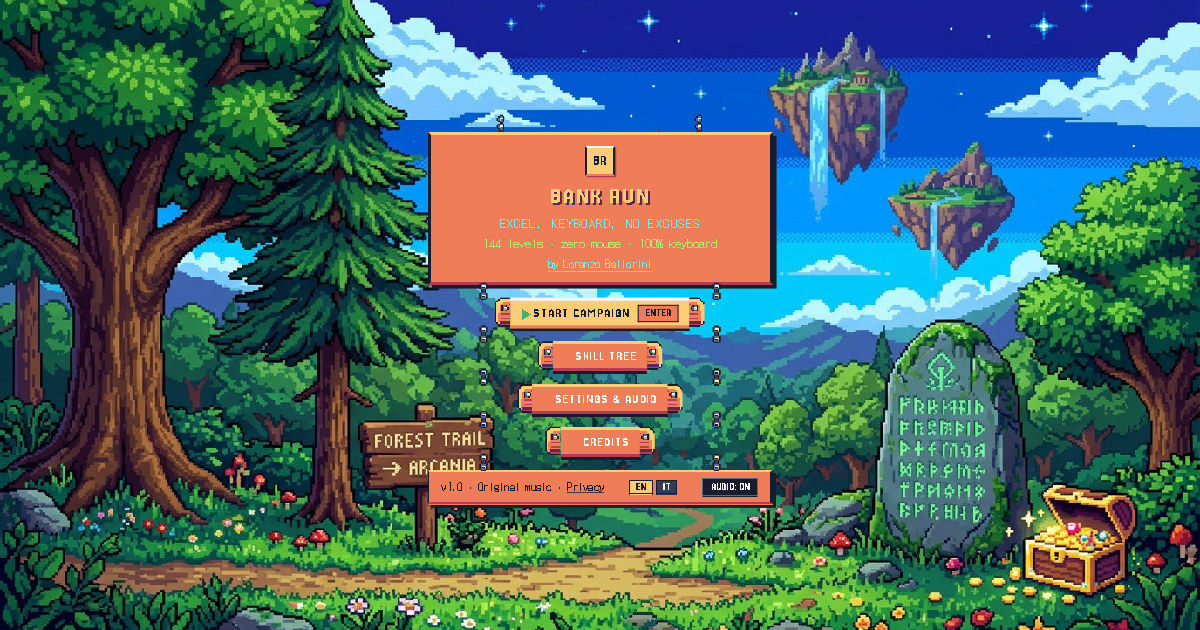
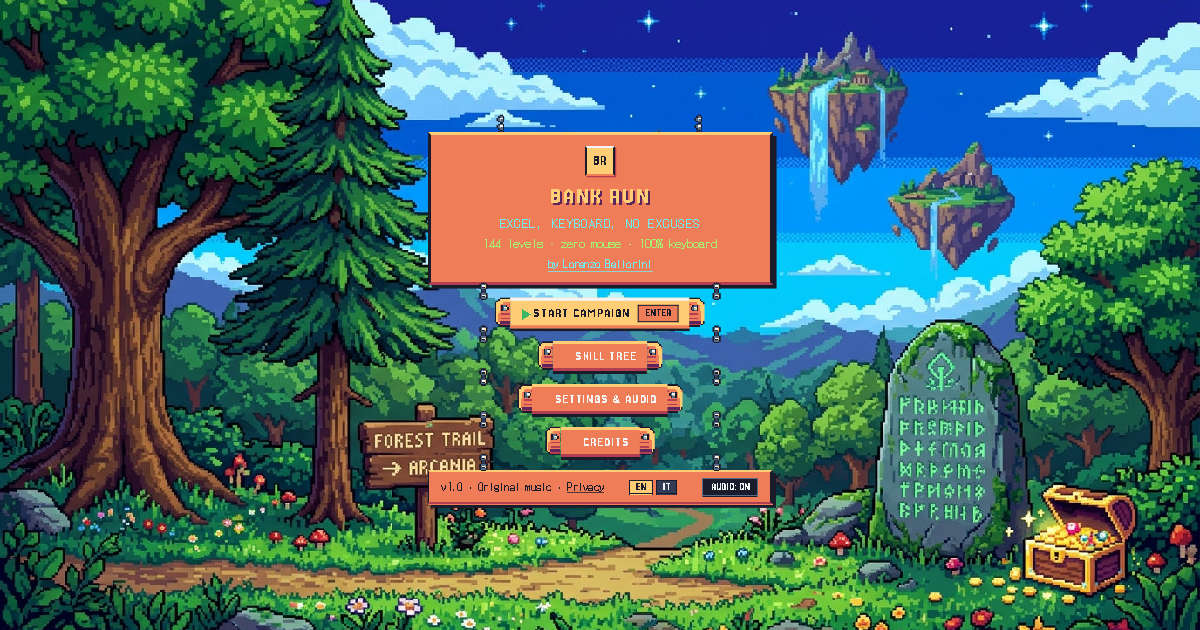
Fix WhatsApp preview and the phone notice on S Pen phones
- og.jpg was 356 KB and WhatsApp drops previews with images over ~300 KB:
  re-encoded at 183 KB, URL versioned so caches fetch the new one.
- The keyboard notice required "no fine pointer at all", which phones with
  a stylus (Galaxy S Ultra, Note) do not satisfy. It now checks that the
  primary pointer is a finger.

diff --git a/index.html b/index.html
@@ -8,12 +8,14 @@
     <meta name="theme-color" content="#1a1c2c" />
     <link rel="icon" type="image/svg+xml" href="/favicon.svg" />
     <link rel="canonical" href="https://playbankrun.pages.dev/" />
-    <!-- Anteprima quando il link viene condiviso (LinkedIn, WhatsApp, Slack, X): gli URL devono essere assoluti. -->
+    <!-- Anteprima quando il link viene condiviso (LinkedIn, WhatsApp, Slack, X): gli URL devono essere assoluti
+         e og.jpg deve restare sotto i 300 KB, altrimenti WhatsApp non mostra l'anteprima. -->
     <meta property="og:site_name" content="Bank Run" />
     <meta property="og:title" content="BANK RUN — Excel, keyboard, no excuses" />
     <meta property="og:description" content="An 8-bit game that trains Excel for IB and PE: 144 levels, keyboard only, Italian and English." />
     <meta property="og:url" content="https://playbankrun.pages.dev/" />
-    <meta property="og:image" content="https://playbankrun.pages.dev/og.jpg" />
+    <meta property="og:image" content="https://playbankrun.pages.dev/og.jpg?v=2" />
+    <meta property="og:image:type" content="image/jpeg" />
     <meta property="og:image:width" content="1200" />
     <meta property="og:image:height" content="630" />
     <meta property="og:image:alt" content="Bank Run title screen: a pixel-art forest with the game menu on a wooden sign" />
@@ -21,7 +23,7 @@
     <meta name="twitter:card" content="summary_large_image" />
     <meta name="twitter:title" content="BANK RUN — Excel, keyboard, no excuses" />
     <meta name="twitter:description" content="An 8-bit game that trains Excel for IB and PE: 144 levels, keyboard only, Italian and English." />
-    <meta name="twitter:image" content="https://playbankrun.pages.dev/og.jpg" />
+    <meta name="twitter:image" content="https://playbankrun.pages.dev/og.jpg?v=2" />
   </head>
   <body>
     <div id="root"></div>

diff --git a/src/ui/TouchNotice.tsx b/src/ui/TouchNotice.tsx
@@ -10,9 +10,14 @@ import { PALETTE } from '../styles/palette';
 
 const CHIAVE = 'dd_touch_notice_seen';
 
-function senzaPuntatoreFine(): boolean {
+/**
+ * Il puntatore principale e' il dito. Non basta "nessun puntatore preciso": i
+ * telefoni con pennino (Galaxy S Ultra, Note) dichiarano anche un puntatore fine
+ * e l'avviso non compariva.
+ */
+function puntatoreDito(): boolean {
   try {
-    return window.matchMedia('(any-pointer: fine)').matches === false;
+    return window.matchMedia('(pointer: coarse)').matches;
   } catch {
     return false;
   }
@@ -21,9 +26,9 @@ function senzaPuntatoreFine(): boolean {
 export function TouchNotice() {
   const [visibile, setVisibile] = useState(() => {
     try {
-      return senzaPuntatoreFine() && localStorage.getItem(CHIAVE) === null;
+      return puntatoreDito() && localStorage.getItem(CHIAVE) === null;
     } catch {
-      return senzaPuntatoreFine();
+      return puntatoreDito();
     }
   });
   const [copiato, setCopiato] = useState(false);
